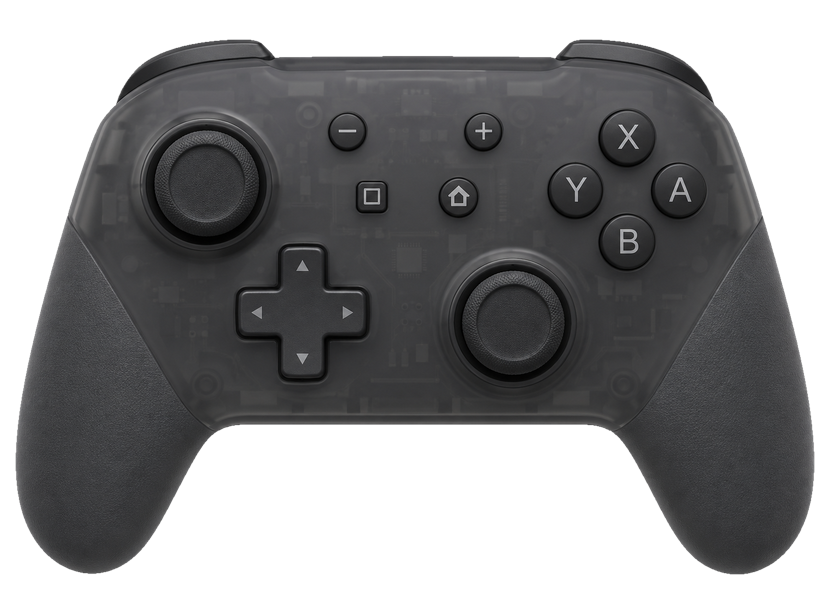
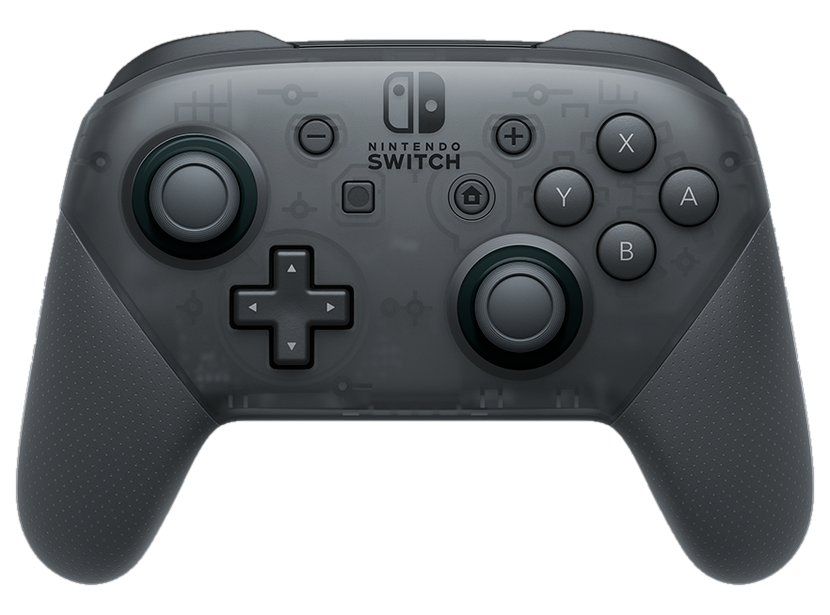
Controller tester: the makers' own pictures for Xbox, DUALSHOCK 4 and both Pro Controllers, buttons lined up

diff --git a/THIRD_PARTY_NOTICES.md b/THIRD_PARTY_NOTICES.md
@@ -94,7 +94,7 @@ The logos of the older systems, made plain white and trimmed to the artwork (the
 
 ## Controller pictures
 
-The controller pictures in `app/assets` (`pad-xbox.png`, `pad-ps4.png`, `pad-ps3.png`, `pad-sw1.png`, `pad-sw2.png`) are original pictures made for this project with an image generator. They have no logos. `pad-ps5.png` is Sony's product image of the DualSense; the DualSense and the PlayStation logo belong to Sony Interactive Entertainment. `controller-steam.png` is Valve's product image of the Steam Controller; the Steam Controller and the Steam logo belong to Valve Corporation.
+The controller pictures in `app/assets` are the makers' own product images, with the backgrounds removed. They and the logos on them belong to their owners: `pad-xbox.png` (Xbox Wireless Controller) to Microsoft, `pad-ps5.png` (DualSense) and `pad-ps4.png` (DUALSHOCK 4) to Sony Interactive Entertainment, `pad-sw1.png` and `pad-sw2.png` (Pro Controllers) to Nintendo, and `controller-steam.png` (Steam Controller) to Valve Corporation. `pad-ps3.png` is an original picture made for this project with an image generator.
 
 ## Data the app fetches
 
